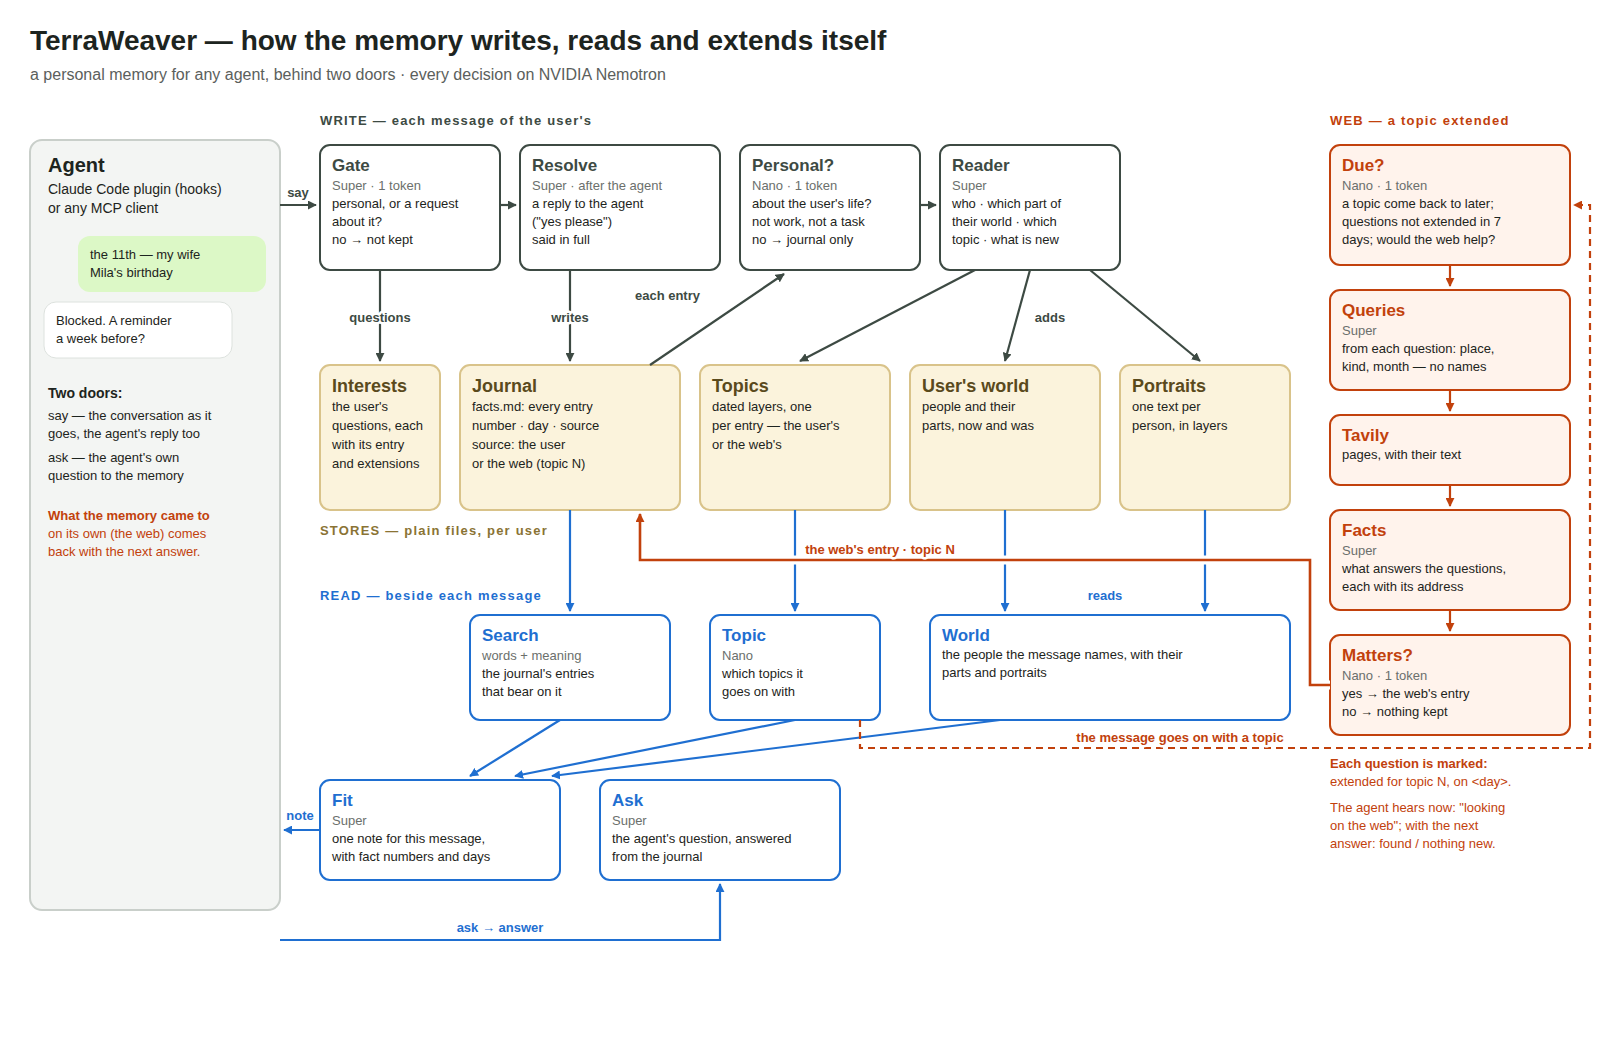
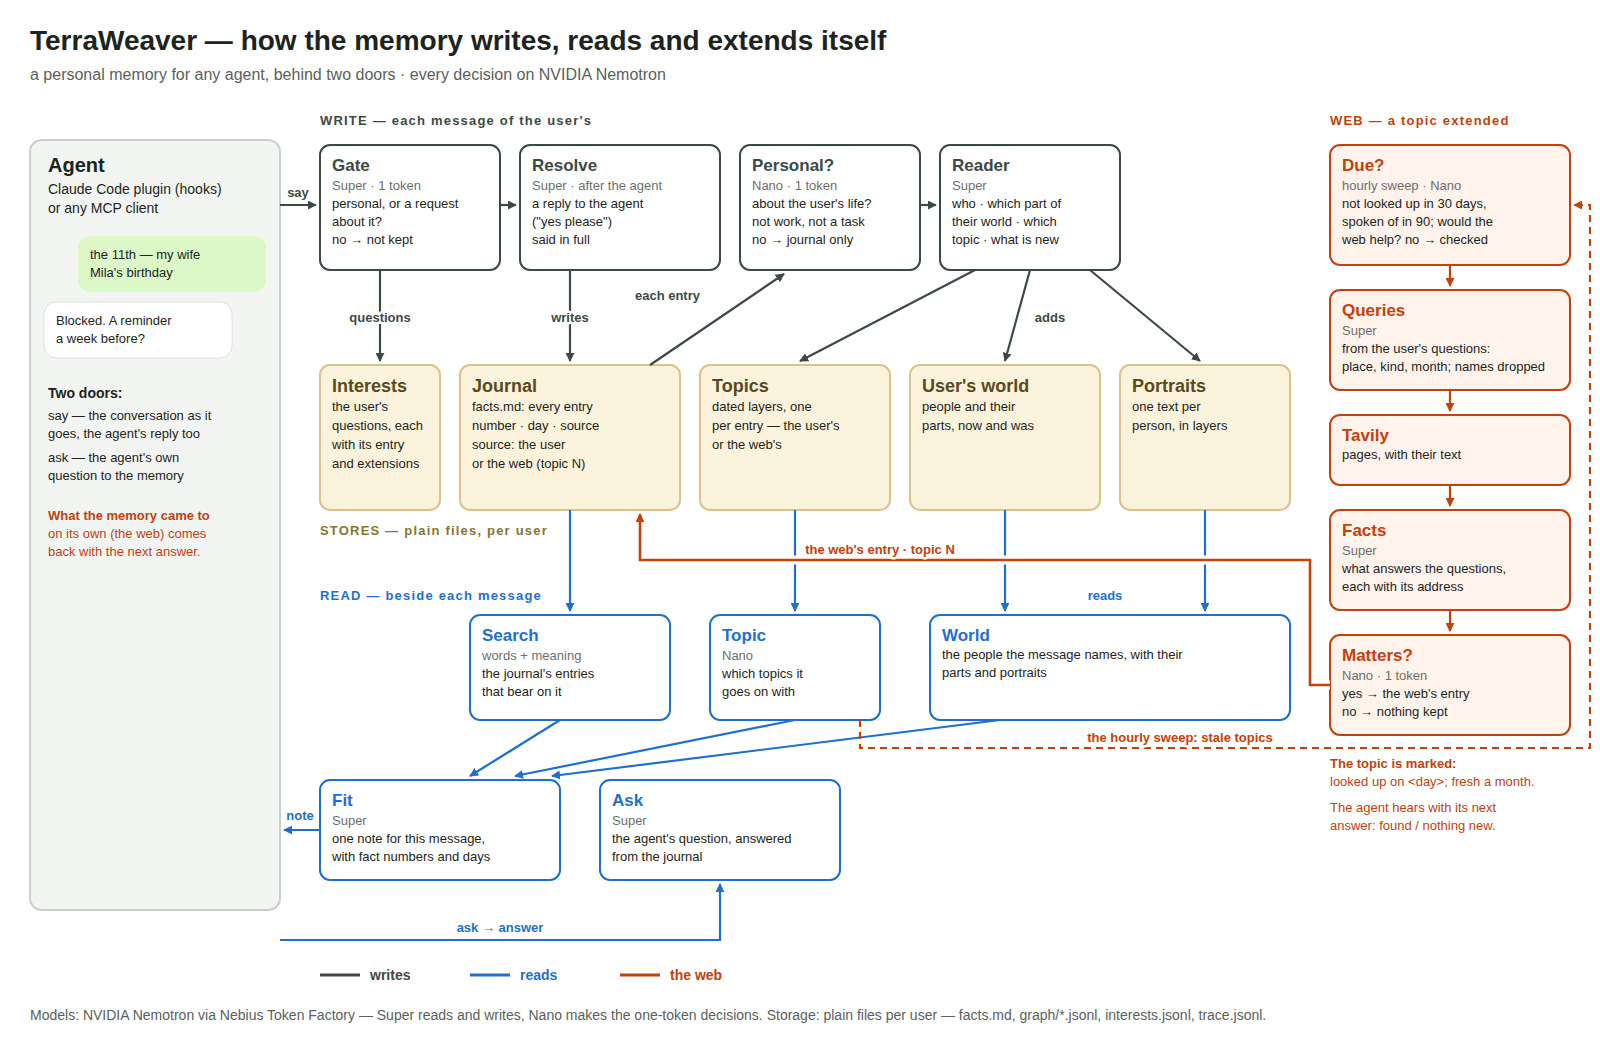
Server --dir flag for a portable memory folder; architecture redrawn for the hourly web sweep

diff --git a/memory/server.py b/memory/server.py
@@ -9,11 +9,13 @@ and the search the readers are shown entries by (`memory/search.py`).
     .venv/bin/python -m memory.server                     # var/memory/main/, port 7110
     .venv/bin/python -m memory.server --name demo --port 7111
     .venv/bin/python -m memory.server --host 0.0.0.0      # the local network, behind a token
+    .venv/bin/python -m memory.server --dir /media/usb/my-memory   # the whole memory in one folder
 """
 import argparse
 import asyncio
 import logging
 import os
+from pathlib import Path
 
 from mcp.server.mcpserver import Context
 
@@ -194,6 +196,8 @@ def main() -> None:
     global graph, search, listener
     parser = argparse.ArgumentParser(description=__doc__, formatter_class=argparse.RawDescriptionHelpFormatter)
     parser.add_argument("--name", default="main", help="var/memory/<name>/: facts.md and what is read from it")
+    parser.add_argument("--dir", default=None, help="the memory's folder anywhere, a USB stick included: the user's "
+                        "whole memory is this one folder of plain files (overrides --name)")
     parser.add_argument("--engine", default="tavily", help="tavily: topics are extended from the web; off: no "
                         "web at all (a benchmark measures the memory, not the web)")
     parser.add_argument("--model", default="nvidia/nemotron-3-super-120b-a12b",
@@ -211,7 +215,7 @@ def main() -> None:
                          "set -a; . ./.env; set +a")
 
     logging.basicConfig(level=logging.INFO, format="%(asctime)s %(name)s %(message)s")
-    where = base.ROOT / "var" / "memory" / args.name
+    where = Path(args.dir).expanduser().resolve() if args.dir else base.ROOT / "var" / "memory" / args.name
     base.facts, base.model = where / "facts.md", args.model
     # Readers are shown what the search finds, not the whole journal: every entry by words and
     # meaning, twelve of them (docs/decisions.md, 2026-10-20).
